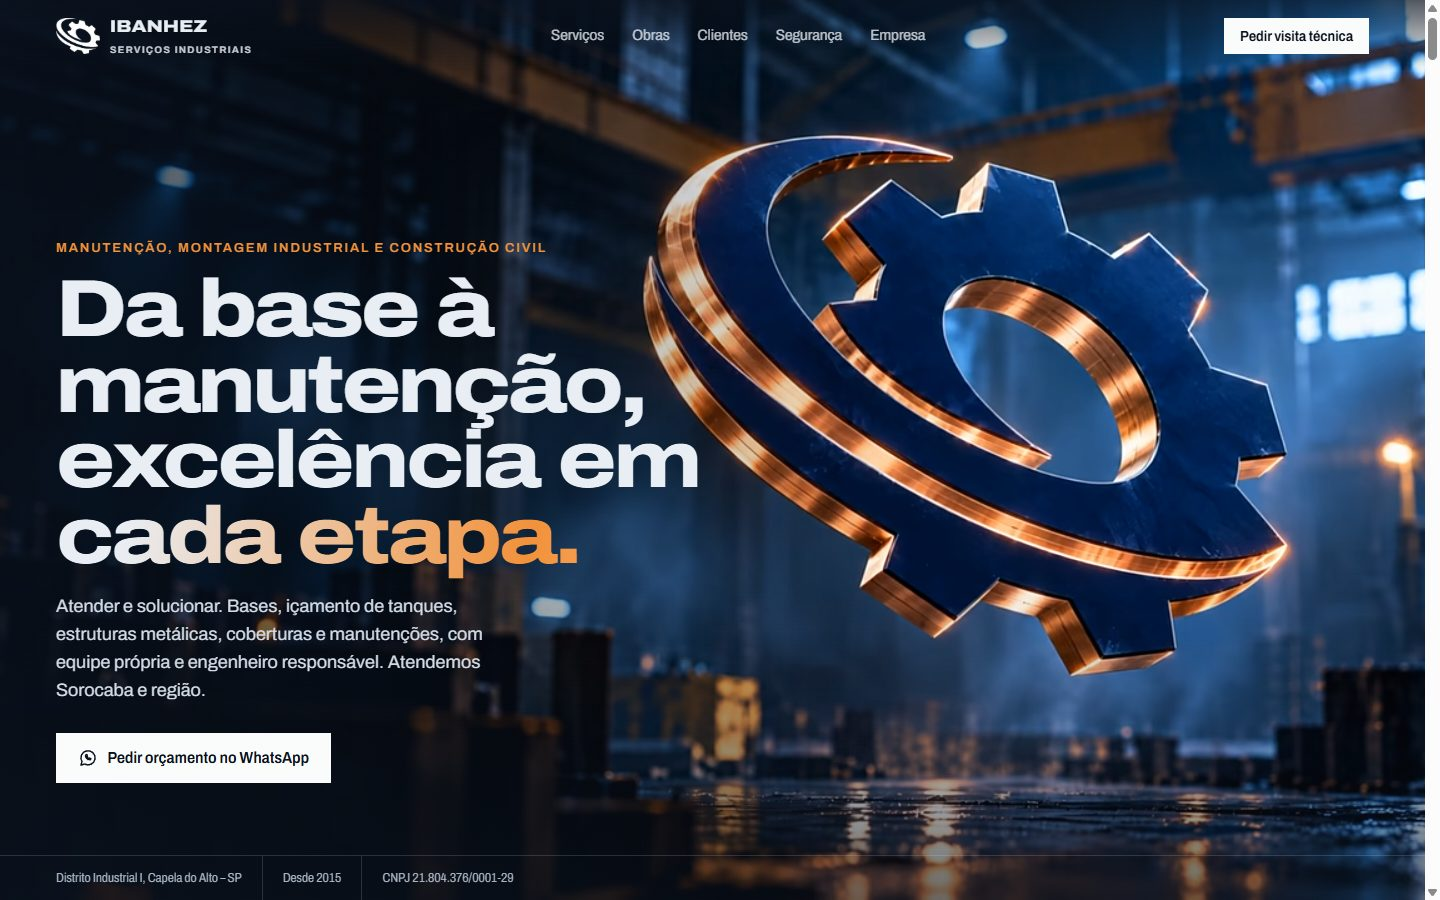
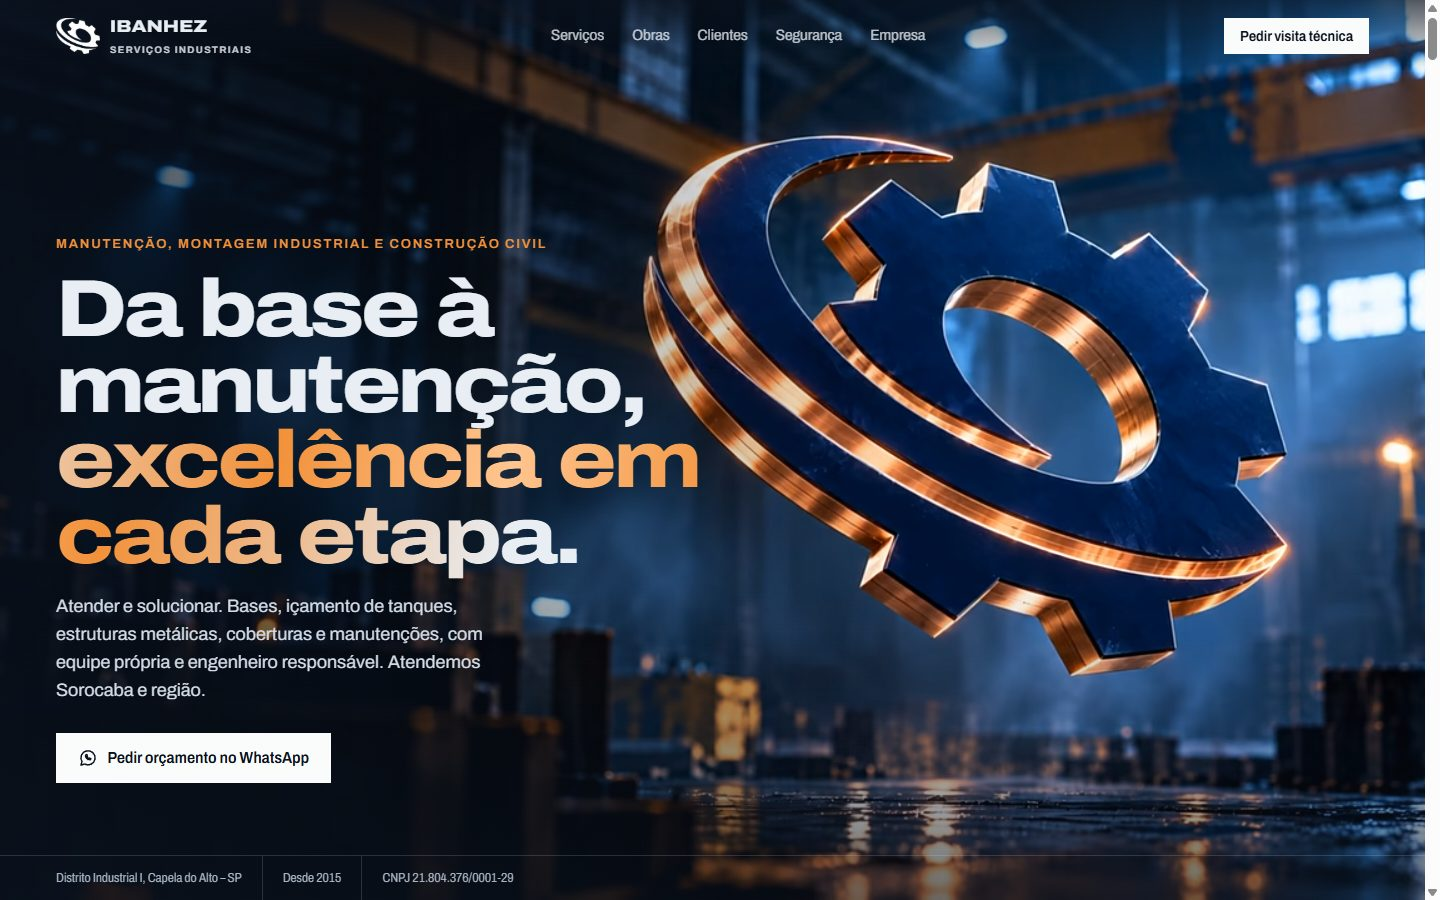
Ibanhez e M4 Cafés no ar; tabela de auditoria SEO

Changed region(s): [[0.0312, 0.4667, 0.5, 0.6533], [0.0312, 0.2489, 0.375, 0.28]]

diff --git a/README.md b/README.md
@@ -4,10 +4,19 @@
 
 Cada site parte de uma ideia própria, ligada ao negócio do cliente, em vez de um template. O processo inclui SEO técnico e GEO (otimização para aparecer em respostas de IA), conferidos pela minha [skill de SEO + GEO para Claude Code](https://github.com/guilhermenahass/seo-geo-skill).
 
+| Site | Segmento | Auditoria de SEO (nov/2026) |
+|---|---|---|
+| [almeidatavares.com](https://www.almeidatavares.com) | Advocacia empresarial, São Paulo | ✅ 0 erros |
+| [renatakouryem.com](https://renatakouryem.com) | Escola de música, Sorocaba | ✅ 0 erros |
+| [drmarcelofranco.com.br](https://drmarcelofranco.com.br) | Urologista, Rio de Janeiro | ✅ 0 erros |
+| [ibanhezservicosind.com](https://ibanhezservicosind.com) | Manutenção industrial, região de Sorocaba | ✅ 0 erros |
+| [M4 Cafés](https://darkslateblue-peafowl-131308.hostingersite.com/) | Café especial B2B, Sul de Minas | ✅ 0 erros |
+| [ggc0de.com](https://ggc0de.com) | A própria agência | 1 aviso de endereço (agência sem loja física) |
+
 ## No ar
 
 ### Almeida Tavares e Silva · Sociedade de Advogados
-**[almeidatavares.com](https://almeidatavares.com)** · escritório de advocacia empresarial em São Paulo
+**[almeidatavares.com](https://www.almeidatavares.com)** · escritório de advocacia empresarial em São Paulo
 
 ![ATS Advogados](img/ats.jpg)
 
@@ -40,14 +49,21 @@ Cada site parte de uma ideia própria, ligada ao negócio do cliente, em vez de 
 
 - **Ideia:** "O site se constrói". O código da página aparece sendo escrito no fundo, com animação em three.js, e o botão "Ver o esqueleto" mostra a estrutura por trás do design.
 
-## Em publicação
-
 ### Ibanhez Serviços Industriais
-Manutenção industrial, bases de reservatório e içamento de tanques em Capela do Alto (SP). Cliente com plano mensal.
+**[ibanhezservicosind.com](https://ibanhezservicosind.com)** · manutenção industrial, bases de reservatório e içamento de tanques, região de Sorocaba (SP)
 
 ![Ibanhez](img/ibanhez.jpg)
 
 - **Ideia:** "Zarcão & Aço", com as cores do primer anticorrosivo e do metal da indústria pesada, e pedido de orçamento direto no WhatsApp.
+- Cliente com plano mensal de manutenção.
+
+### M4 Cafés
+**[M4 Cafés](https://darkslateblue-peafowl-131308.hostingersite.com/)** · café especial premiado da Fazenda da Onça (Sul de Minas) para cafeterias, padarias e escritórios. O domínio próprio está a caminho.
+
+![M4 Cafés](img/m4-cafes.jpg)
+
+- **Ideia:** "da fazenda para o seu balcão". O site leva o comprador B2B do cafezal à xícara, passando pelos cafés, pela fazenda, pela história da família e pelos prêmios.
+- Orçamento direto no WhatsApp.
 
 ## Como trabalho
 
